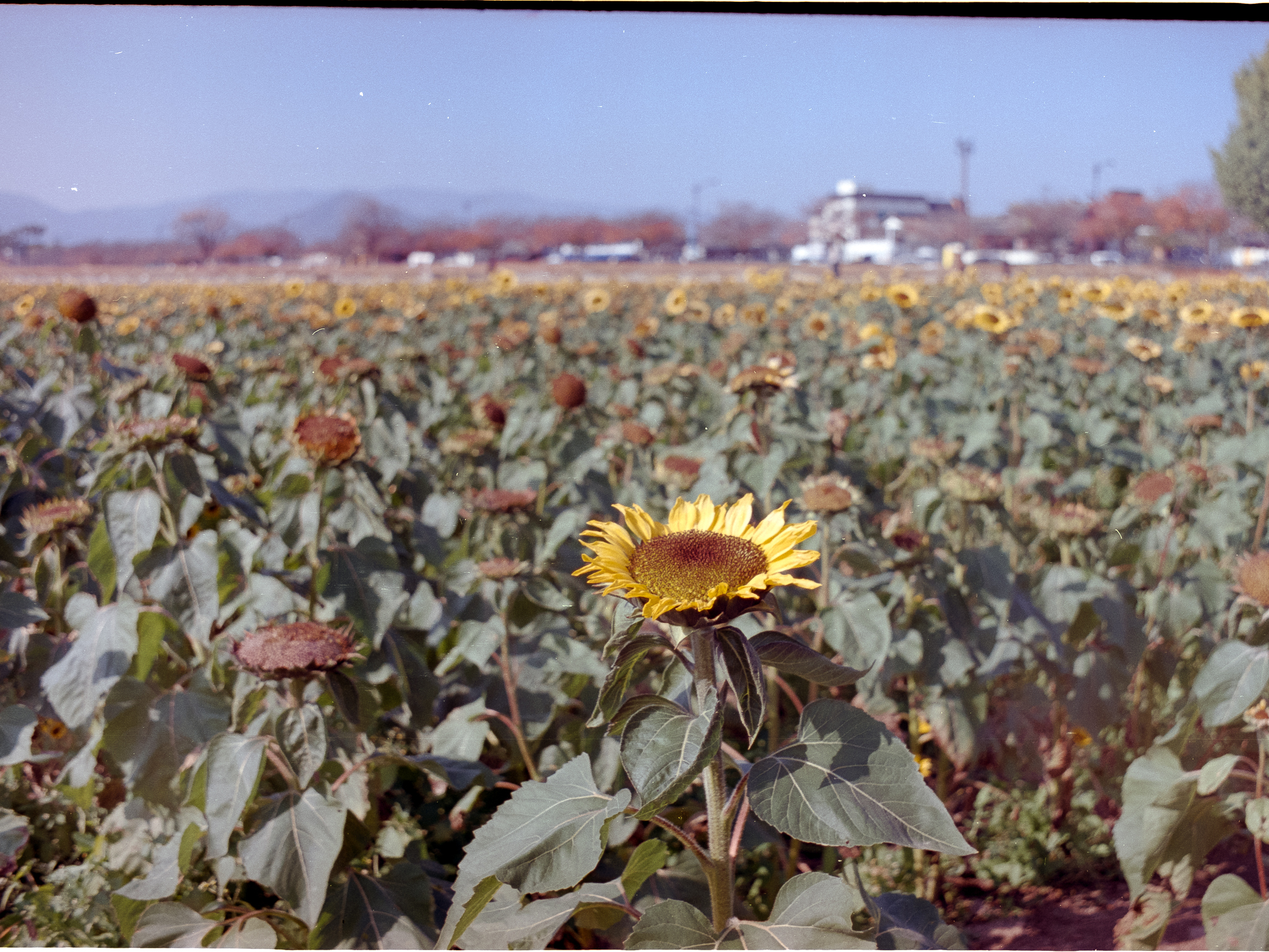
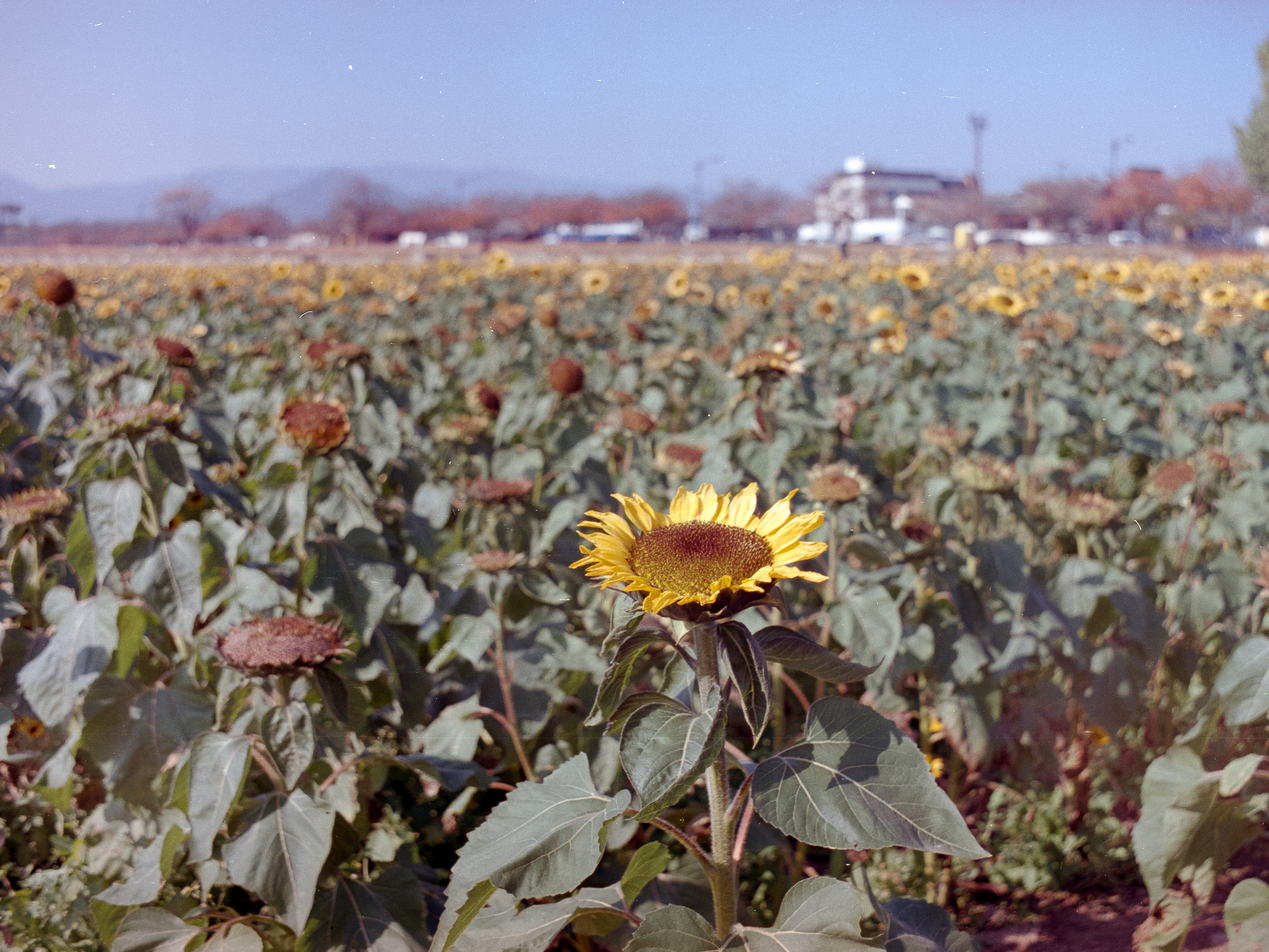
fix: link

diff --git a/src/content/blog/the-new-space-race-ii-a-sea-of-debris.md b/src/content/blog/the-new-space-race-ii-a-sea-of-debris.md
@@ -6,7 +6,7 @@ date: 2025-09-01
 
 # The new Space Race II, A sea of debris
 
-As I mentioned in my previous article about the transformation of the space industry, we're witnessing an unprecedented boom in space activity. With more than two launches per week globally and over 250 launches in 2024 alone, there's clearly a new race for space driven by satellite constellations, commercial interests, and political sovereignty.
+As I mentioned in my [previous article](/blog/the-new-space-race-ii-a-sea-of-debris/) about the transformation of the space industry, we're witnessing an unprecedented boom in space activity. With more than two launches per week globally and over 250 launches in 2024 alone, there's clearly a new race for space driven by satellite constellations, commercial interests, and political sovereignty.
 
 While I find this expansion exciting and undoubtedly a win for humanity, pushing our knowledge and capabilities ever further, some troubling questions are emerging. How are we going to manage the debris from all those launches and aging satellites? What about the environmental impact? And if space launchers are tools for state sovereignty, why is Europe struggling to keep pace?
 
